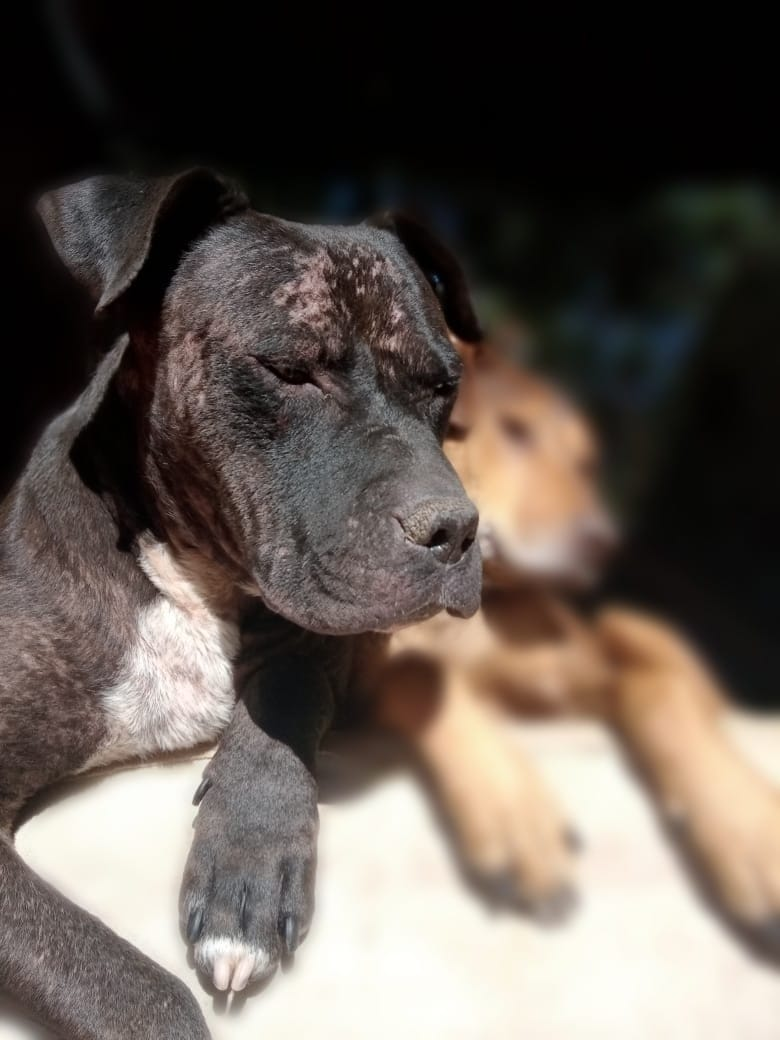
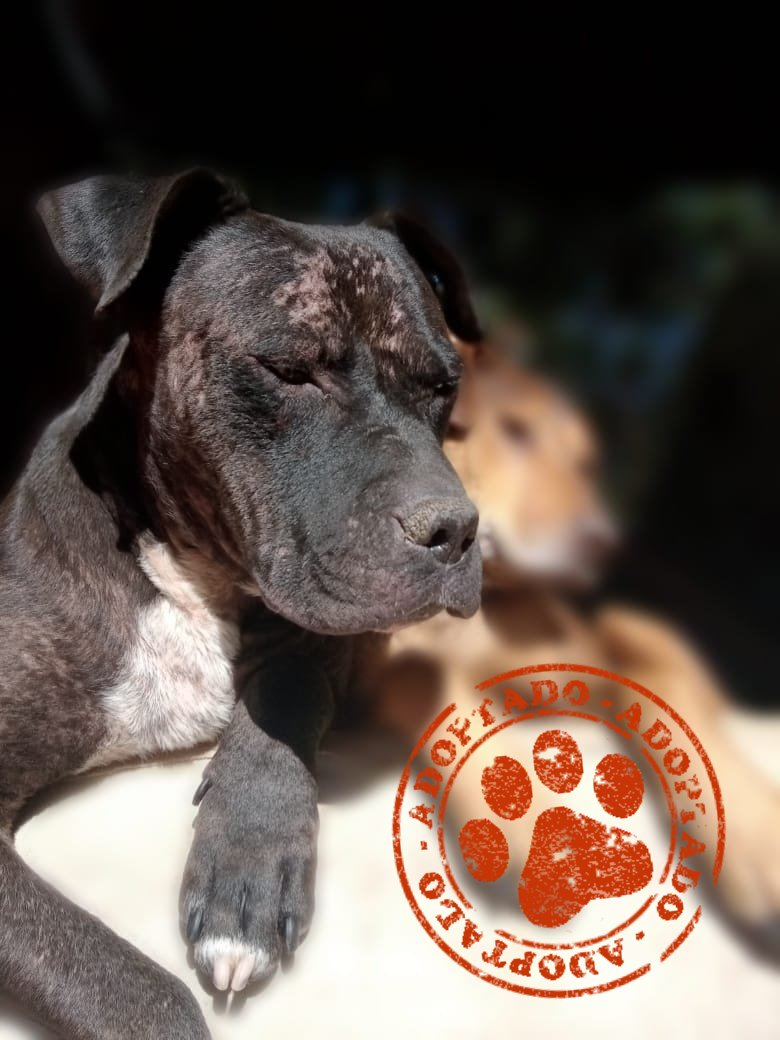
Adopción y día del perro

Changed region(s): [[0.4923, 0.6154, 0.9538, 0.9846]]

diff --git a/js/common.js b/js/common.js
@@ -102,9 +102,10 @@ function getHTMLMascota(mascota, id) {
   let htmlInicial = `<div class="card ${sexo}" id="adopcion">
                         <div class="title"><b>${mascota.nombre} / ${mascota.edad}</b></div>`;
   let htmlImagenes = getHTMLSliderFotos(mascota.fotos, id);
+  let className = mascota.adoptado ? "donate-button disable" : "donate-button";
   let htmlFinal = `     <div class="footer">
-                          <a class="donate-button" onclick="abrirDialogo('#dialog_${id}');">Más sobre mí</a>
-                          <a class="donate-button" href="contacto">¡Adoptame!</a>
+                          <a class="${className}" onclick="abrirDialogo('#dialog_${id}');">Más sobre mí</a>
+                          <a class="${className}" href="contacto">¡Adoptame!</a>
                         </div>
                         <div id="dialog_${id}" style="display: none" title="${mascota.nombre}">
                           ${mascota.descripcion}

diff --git a/css/style.css b/css/style.css
@@ -279,3 +279,8 @@ body {
 .slider-display-container {
   position: relative;
 }
+.disable {
+  pointer-events: none;
+  cursor: default;
+  opacity: 0.4;
+}
